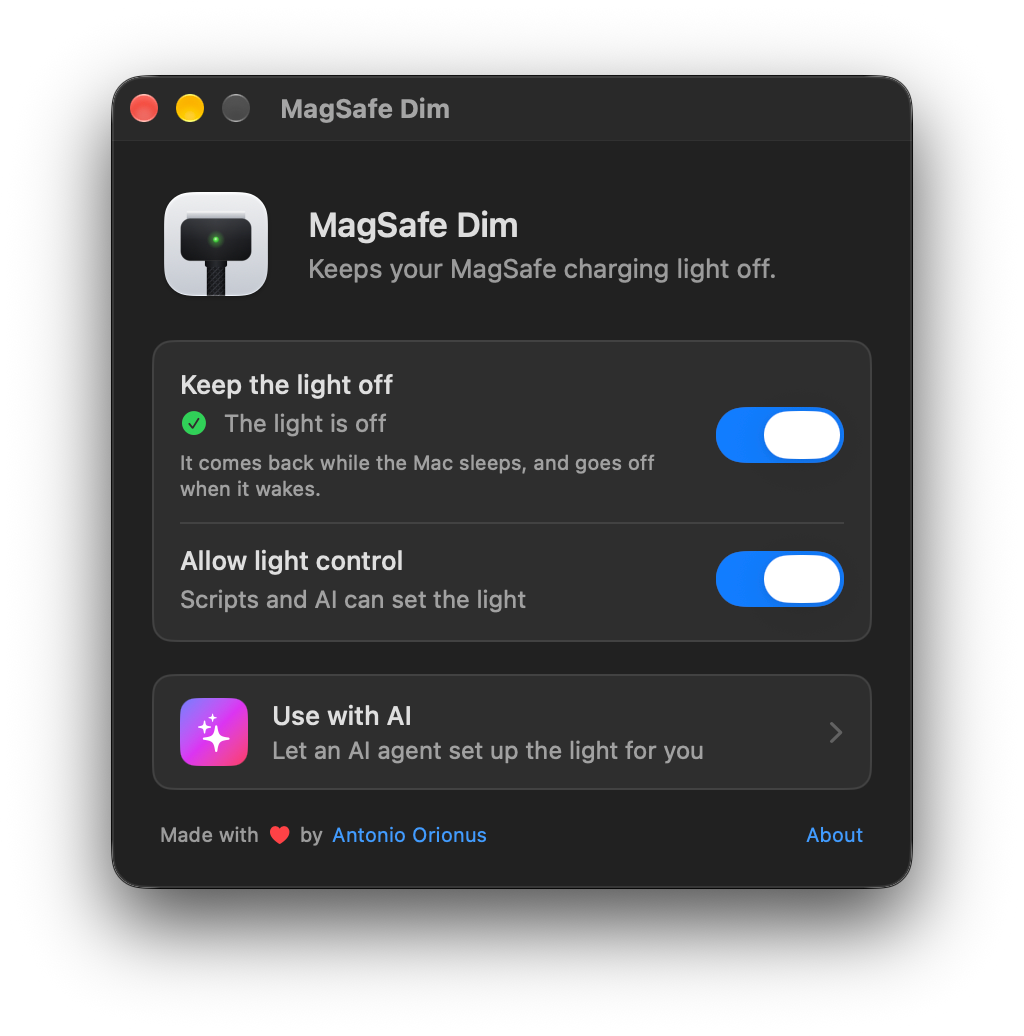
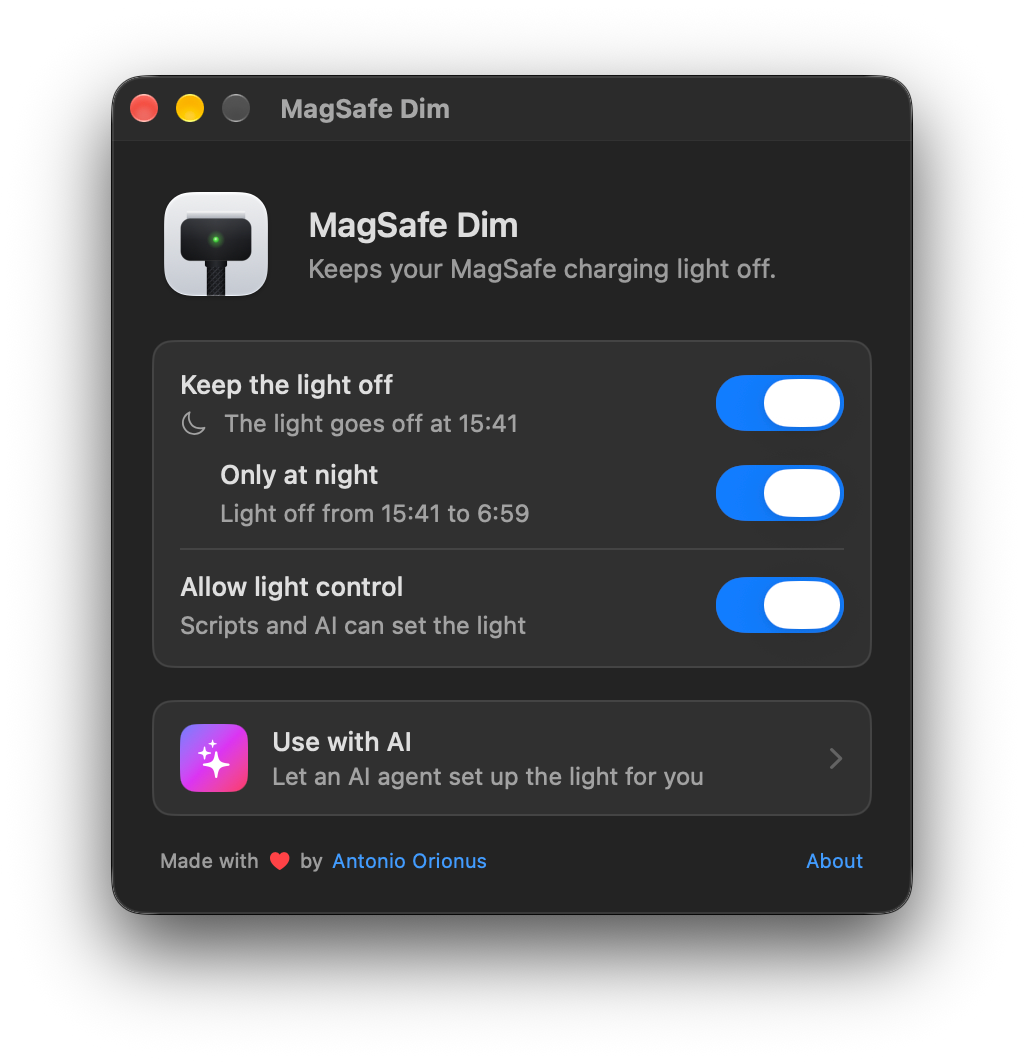
Show the night switch in the README screenshots

diff --git a/README.md b/README.md
@@ -9,7 +9,7 @@
 <p align="center">
   <picture>
     <source media="(prefers-color-scheme: dark)" srcset="assets/screenshots/window-dark.png">
-    <img src="assets/screenshots/window-light.png" width="512" alt="The MagSafe Dim window with the switches 'Keep the light off' and 'Allow light control' turned on, and a 'Use with AI' button">
+    <img src="assets/screenshots/window-light.png" width="512" alt="The MagSafe Dim window with the switches 'Keep the light off', 'Only at night' (light off from 15:41 to 6:59) and 'Allow light control' turned on, and a 'Use with AI' button">
   </picture>
 </p>
 
